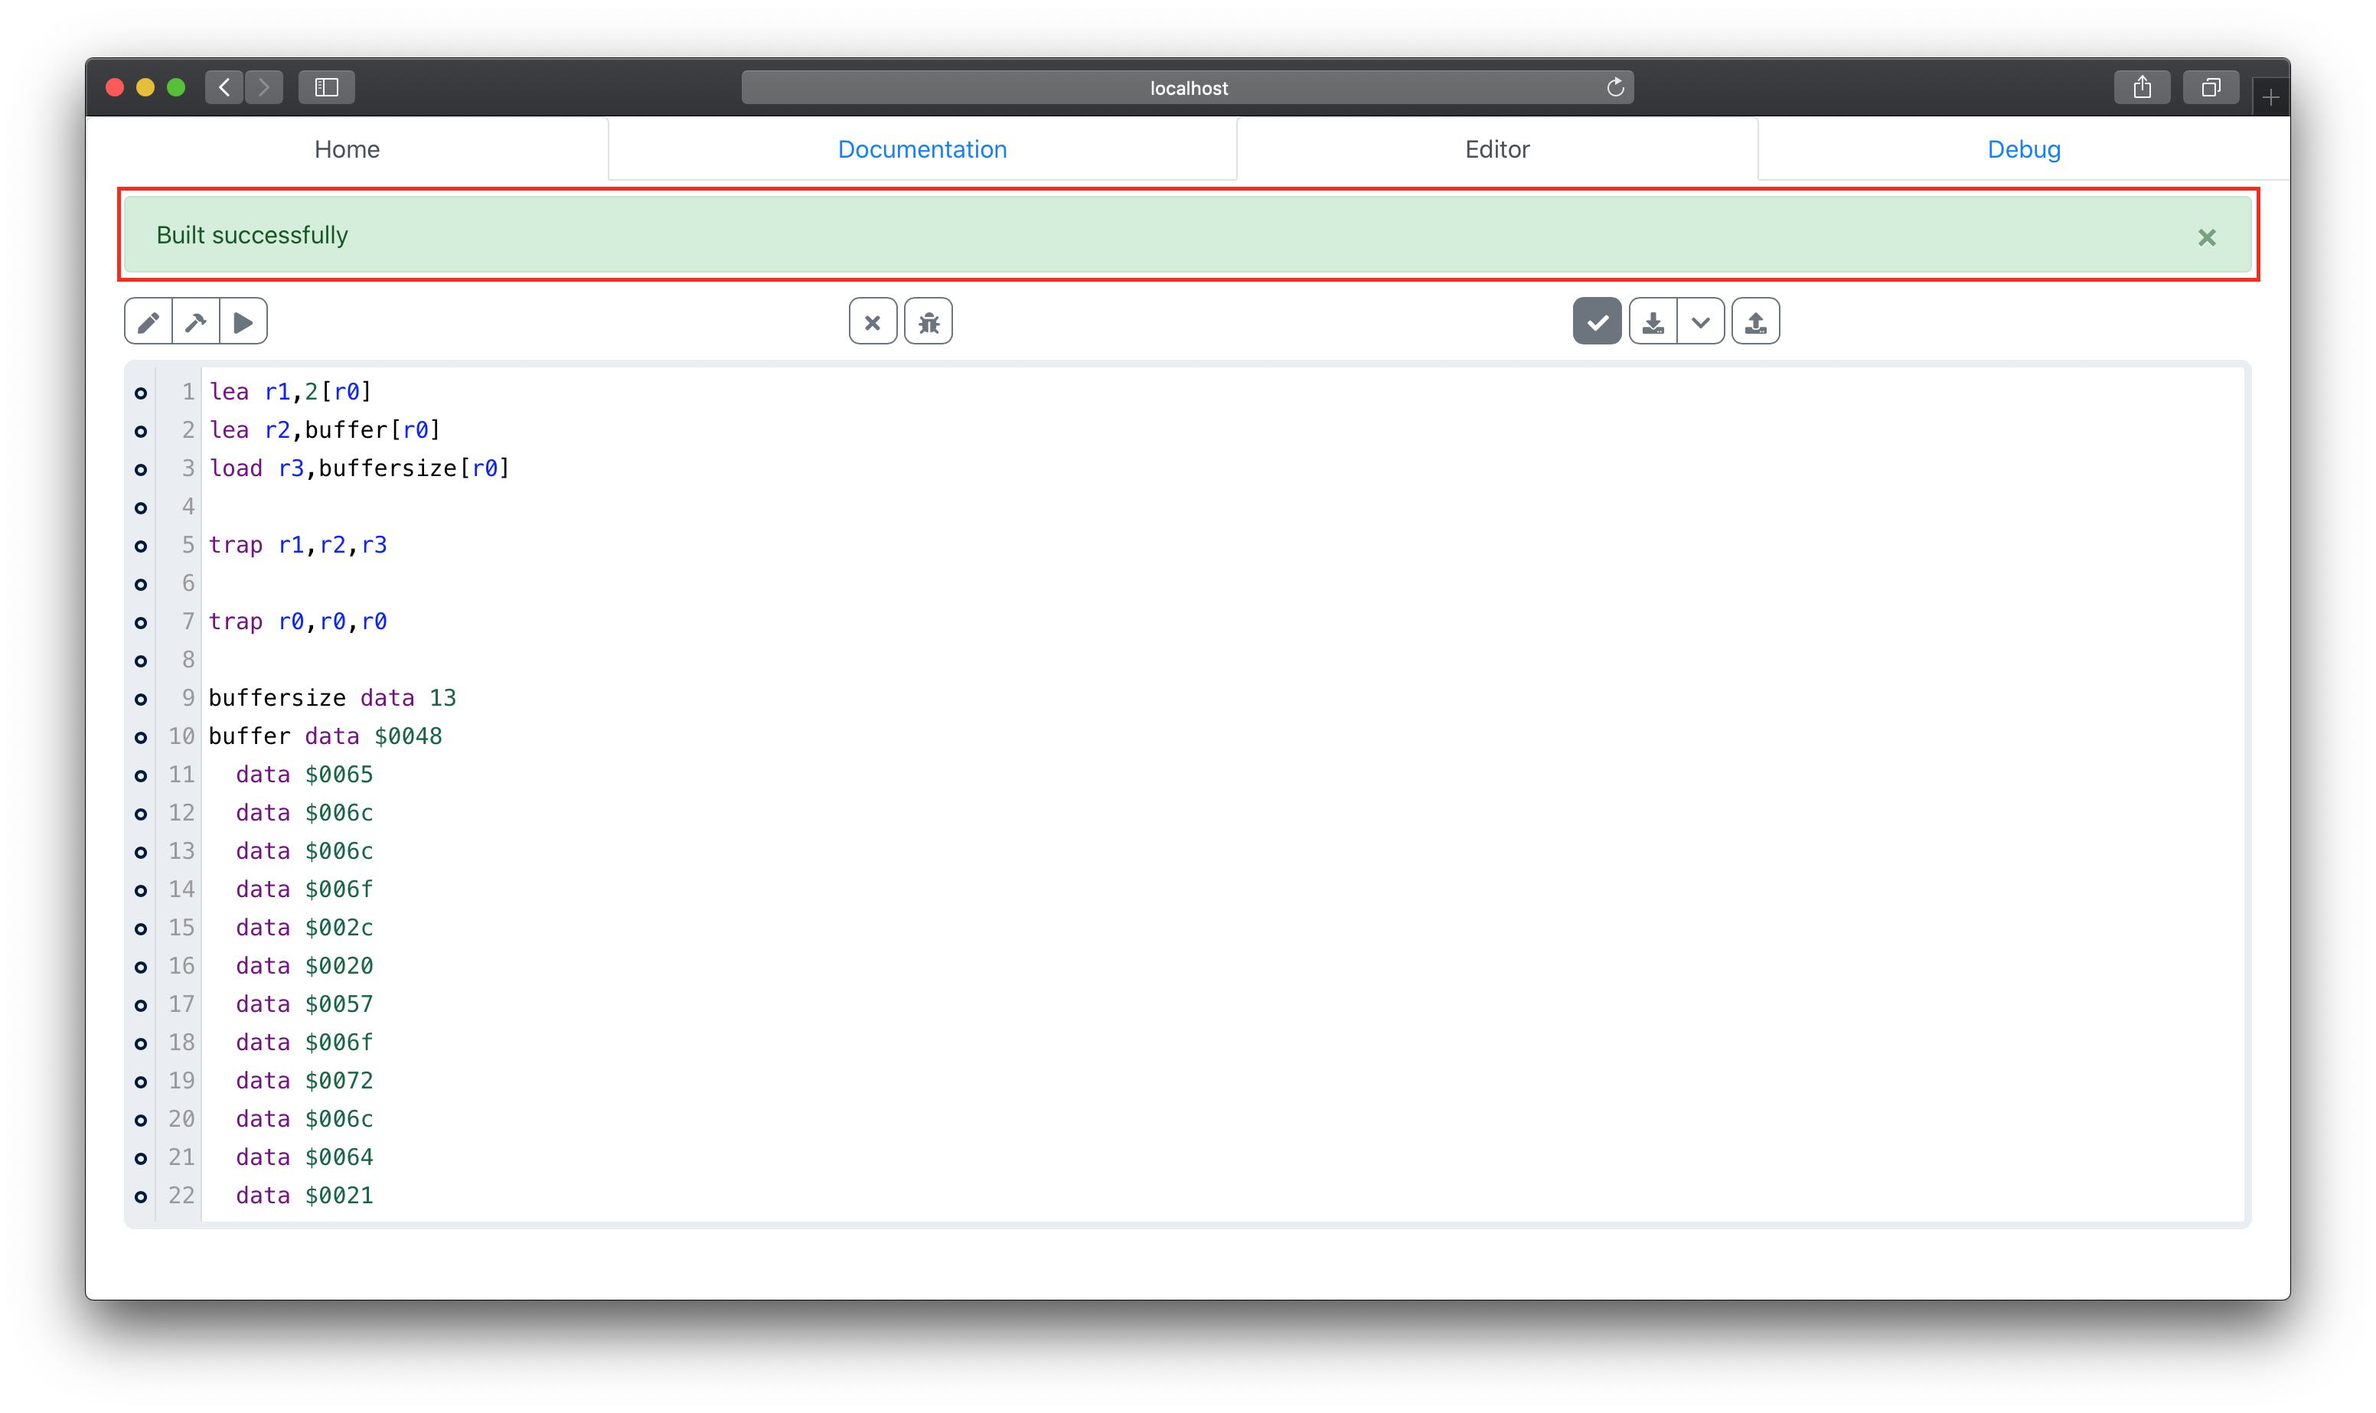
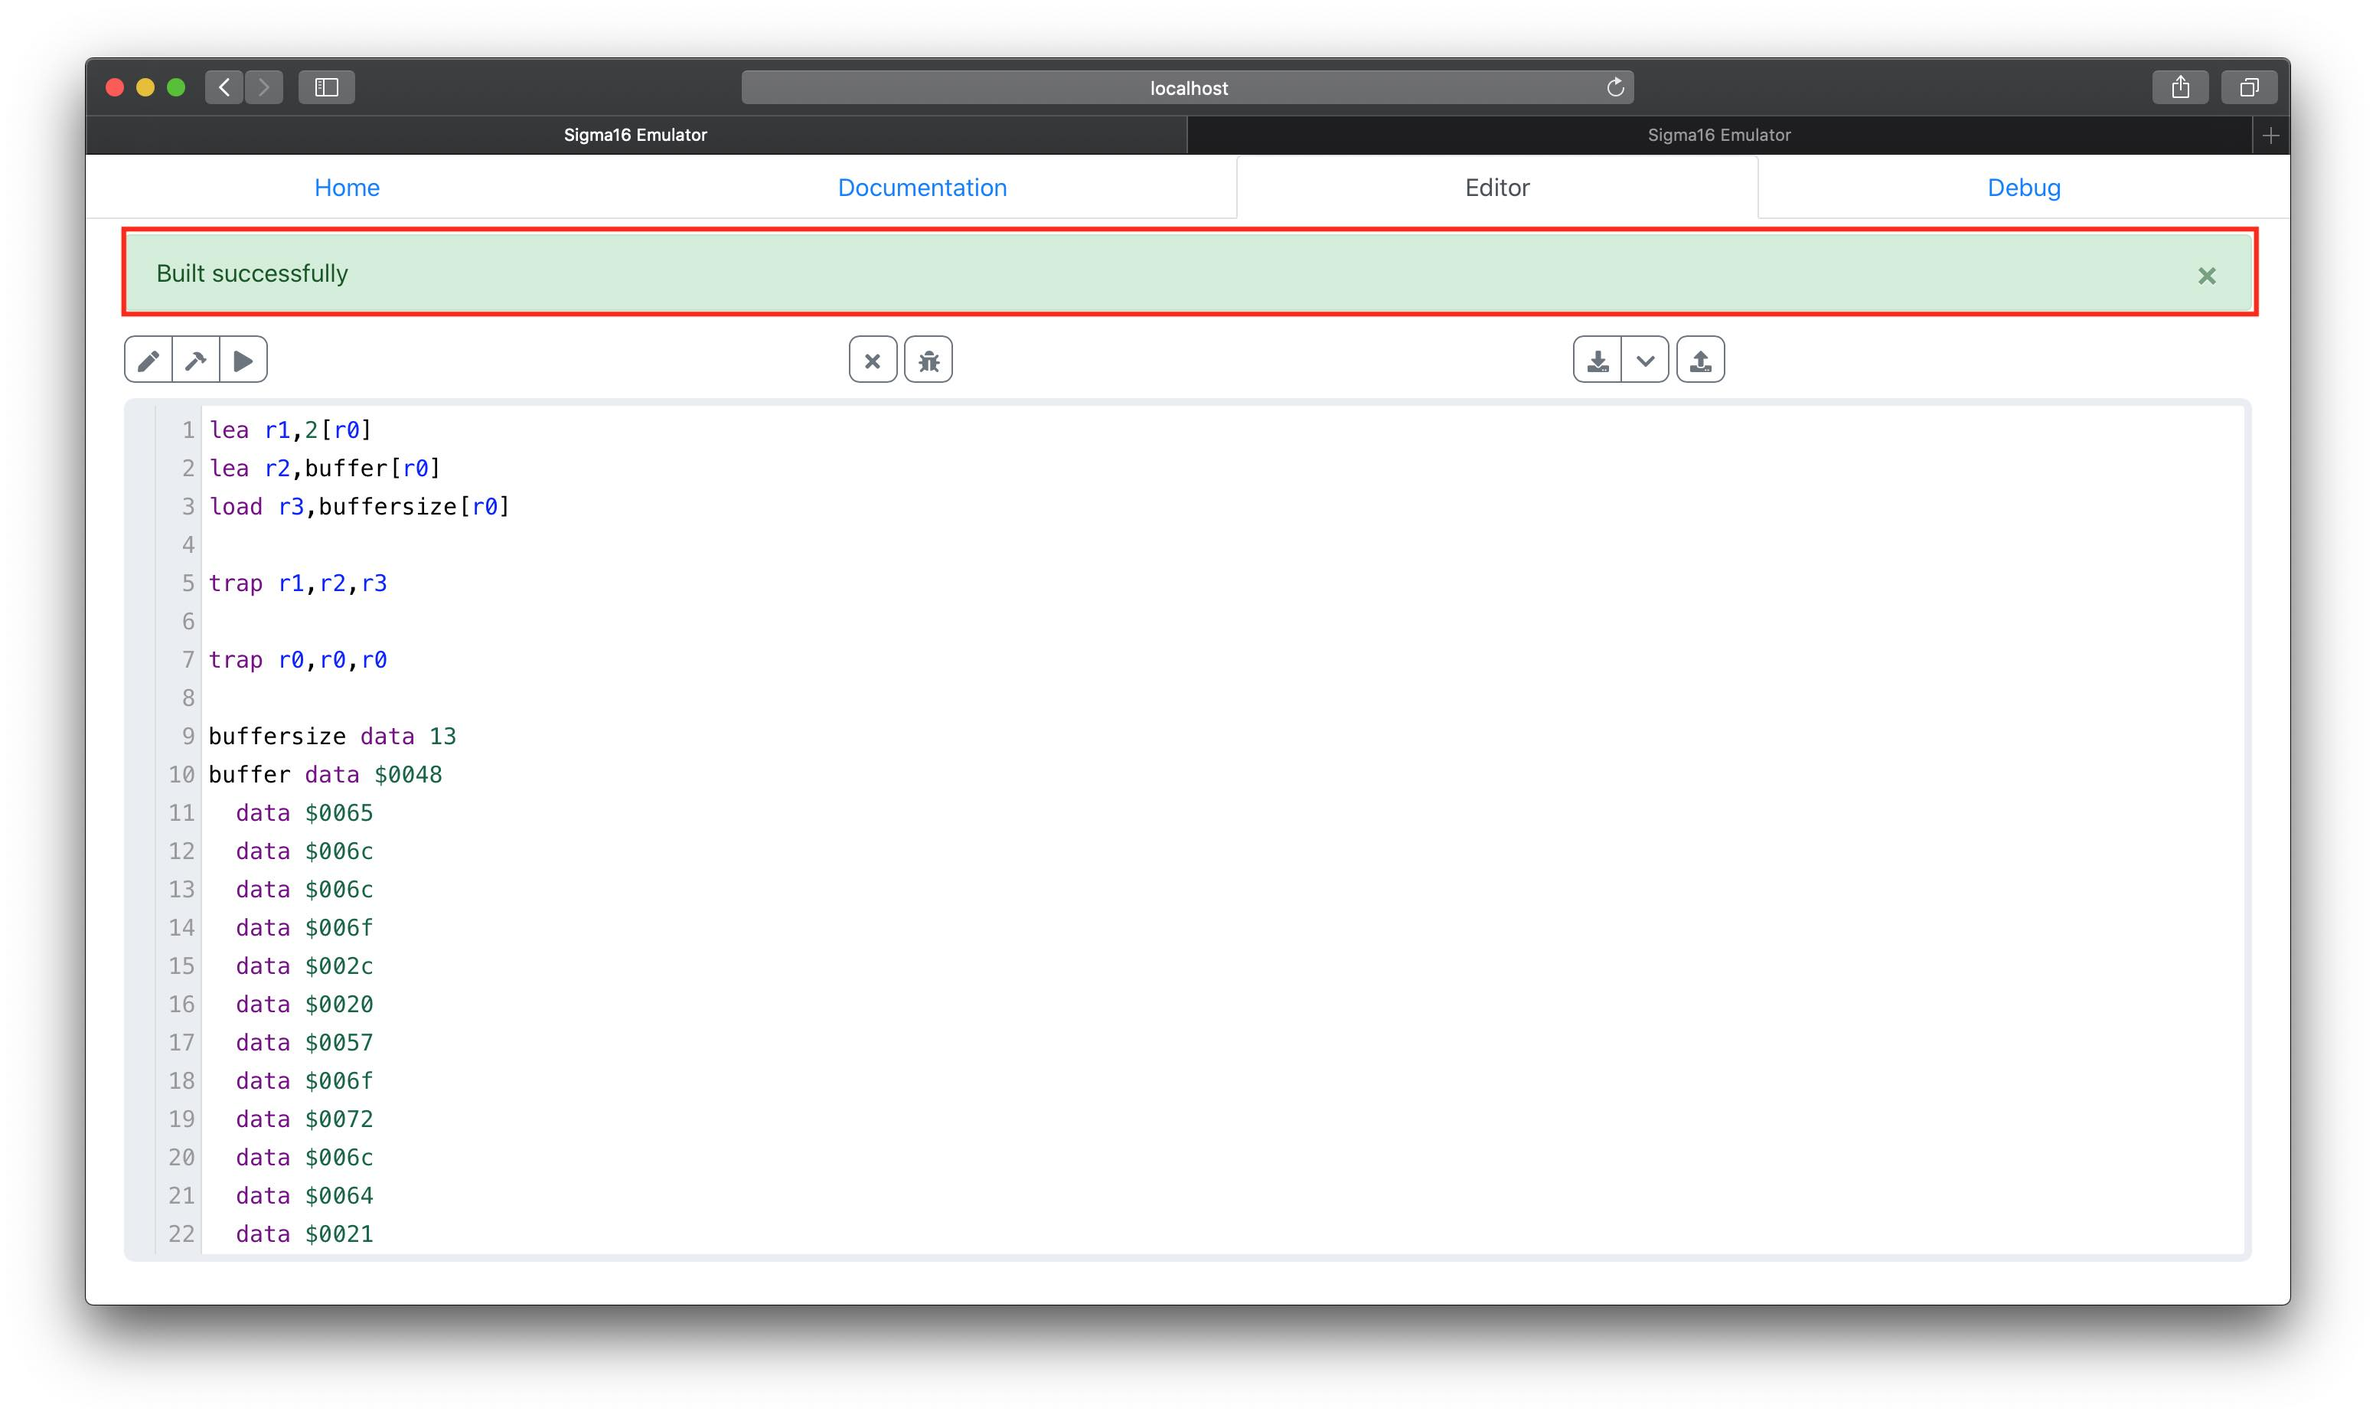
updated docs images and text about highlighting. fixed any other errors that were residing

Changed region(s): [[0.0312, 0.0309, 0.9688, 0.8954]]

diff --git a/src/components/DocumentationView.js b/src/components/DocumentationView.js
@@ -9,7 +9,7 @@ import React from 'react';
 import './DocumentationView.css';
 
 import { Button, Col, Collapse, Row, Table } from 'react-bootstrap';
-import { FaBackward, FaBug, FaCheck, FaChevronDown, FaChevronUp, FaDownload, FaEye, FaEyeSlash, FaHammer, FaMinus, FaPen, FaPlay, FaStepForward, FaTimes, FaUpload } from 'react-icons/fa';
+import { FaBackward, FaBug, FaChevronDown, FaChevronUp, FaDownload, FaEye, FaEyeSlash, FaHammer, FaMinus, FaPen, FaPlay, FaStepForward, FaTimes, FaUpload } from 'react-icons/fa';
 import Select from 'react-select';
 
 import * as Emulator from './utils/Emulator';
@@ -119,7 +119,6 @@ export default class DocumentationView extends React.Component {
 
           'Using the IDE/Editing a program', // Editing a program
             'Using the IDE/Editing a program/Input editing', // Input editing
-            'Using the IDE/Editing a program/Highlighting', // Highlighting
 
           'Using the IDE/Running a program', // Running a program
           
@@ -1904,19 +1903,6 @@ export default class DocumentationView extends React.Component {
                       <img style={{width : '100%', height : '100%'}} src={`${process.env.PUBLIC_URL}/docs/editing2.jpg`} alt='Red box around text box of set input modal'/>
                     </div>
                   </InfoArea>
-                  <InfoArea state={this.state} title={'Highlighting'} depth={3}>
-                    <div className='info-body white'>
-                      The <strong>keyword highlighting</strong> of the code chunk can be <strong>turned off</strong> by pressing the <FaCheck/> icon on the <strong>far right</strong> of the button toolbar. This <strong>increases</strong> the <strong>performance</strong> of the website <strong>slightly</strong> when editing larger files, e.g, thousands of lines<br/>
-                      <img style={{width : '100%', height : '100%'}} src={`${process.env.PUBLIC_URL}/docs/editing3.jpg`} alt='Unhighlighted code chunk'/><br/>
-                      However, <strong>indenting</strong> with the <strong>unhighlighted</strong> code chunk is not as <strong>well-formed</strong> so it is suggested that even when editing larger files, to <strong>still</strong> use the highlighting, or, another text Editor, such as{'\xa0'/**&nbsp*/}
-                      <a
-                        href='https://sublimetext.com'
-                        target='_blank'
-                        rel='noopener noreferrer'>
-                        Sublime Text 3
-                      </a><br/>
-                    </div>
-                  </InfoArea>
                 </InfoArea>
                 <InfoArea state={this.state} title={'Running a program'} depth={2}>
                   <div className='info-body white'>
@@ -1982,8 +1968,8 @@ export default class DocumentationView extends React.Component {
                       
                       <img style={{width : '100%', height : '100%'}} src={`${process.env.PUBLIC_URL}/docs/debugging1.jpg`} alt='Red box around build unsuccessful alert'/><br/>
                       
-                      <strong>Along</strong> with an alert at the top of the window displaying, the <strong>line</strong> in which error has occurred will have a <strong>red box</strong> replacing the regular black circle in the <strong>column</strong> to the <strong>left</strong> of the <strong>line numbers</strong> in the <strong>code chunk</strong><br/>
-                      When <strong>hovering over</strong> this now <strong>red box</strong>, details about why the error occurred will appear<br/>
+                      <strong>Along</strong> with an alert at the top of the window displaying, the <strong>line</strong> in which error has occurred will have a <strong>red box</strong> replacing nothing in the <strong>column</strong> to the <strong>left</strong> of the <strong>line numbers</strong> in the <strong>code chunk</strong><br/>
+                      When <strong>hovering over</strong> this <strong>red box</strong>, details about why the error occurred will appear<br/>
                       
                       <img style={{width : '100%', height : '100%'}} src={`${process.env.PUBLIC_URL}/docs/debugging2.jpg`} alt='Red box around error details tooltip'/><br/>
                       
@@ -2013,8 +1999,7 @@ export default class DocumentationView extends React.Component {
                       
                       <img style={{width : '100%', height : '100%'}} src={`${process.env.PUBLIC_URL}/docs/debugging4.jpg`} alt='Red box around success alert'/><br/>
                       
-                      Like the Editor tab, the <strong>highlighting</strong> for the code chunk can be turned <strong>off</strong> and <strong>on</strong> using the <FaCheck/> icon<br/>
-                      <strong>Unlike</strong> the Editor tab, however, the code chunk can be <strong>hidden completely</strong> using the <FaMinus/> icon<br/>
+                      <strong>Unlike</strong> the Editor tab, the code chunk can be <strong>hidden completely</strong> using the <FaMinus/> icon<br/>
                       
                       <img style={{width : '100%', height : '100%'}} src={`${process.env.PUBLIC_URL}/docs/debugging5.jpg`} alt='Red box around success alert'/><br/>
                       
@@ -2056,8 +2041,8 @@ export default class DocumentationView extends React.Component {
                         
                         <br/>
                         
-                        Breakpoints can be <strong>activated</strong> by <strong>clicking</strong> one of the <strong>circles</strong> on the column to the <strong>left</strong> of the <strong>line numbers</strong><br/>
-                        This will <strong>fill</strong> the <strong>circle</strong> to indicate the breakpoint has been activated. Also, in the Debugger window, the <strong>corresponding</strong> memory cell to the line will become <strong>underlined</strong> to show <strong>where</strong> in <strong>memory</strong> the program's <strong>execution</strong> will <strong>pause</strong><br/>
+                        Breakpoints can be <strong>activated</strong> by <strong>clicking</strong> on the <strong>line number</strong> to the <strong>left</strong> of the <strong>code</strong><br/>
+                        This will then show a <strong>filled circle</strong> to indicate the breakpoint has been activated. Also, in the Debugger window, the <strong>corresponding</strong> memory cell to the line will become <strong>underlined</strong> to show <strong>where</strong> in <strong>memory</strong> the program's <strong>execution</strong> will <strong>pause</strong><br/>
                         
                         <img style={{width : '100%', height : '100%'}} src={`${process.env.PUBLIC_URL}/docs/debugging8.jpg`} alt='Red box around activated breakpoint and underlined memory value'/><br/>
                         
@@ -2122,7 +2107,7 @@ export default class DocumentationView extends React.Component {
 
                       <img style={{width : '100%', height : '100%'}} src={`${process.env.PUBLIC_URL}/docs/exporting3.jpg`} alt='Red box around failed download alert'/><br/>
 
-                      Along with the <strong>alert</strong>, the circle in the column to the <strong>left</strong> of the <strong>line numbers</strong> will turn into a <strong>red triangle</strong><br/>
+                      Along with the <strong>alert</strong>, a <strong>red triangle</strong> will appear in the column <strong>next</strong> to the <strong>line numbers</strong><br/>
                       <strong>Hovering over</strong> this triangle will display information for why this line is <strong>incompatible</strong><br/>
 
                       <img style={{width : '100%', height : '100%'}} src={`${process.env.PUBLIC_URL}/docs/exporting4.jpg`} alt='Red box around failed download tooltip'/><br/>
@@ -2135,7 +2120,7 @@ export default class DocumentationView extends React.Component {
 
                       <img style={{width : '100%', height : '100%'}} src={`${process.env.PUBLIC_URL}/docs/exporting5.jpg`} alt='Red box around warning download alert'/><br/>
 
-                      Along with the <strong>alert</strong>, the circle in the column to the <strong>left</strong> of the <strong>line numbers</strong> will turn into an <strong>orange triangle</strong><br/>
+                      Along with the <strong>alert</strong>, an <strong>orange triangle</strong> will appear in the column <strong>next</strong> to the <strong>line numbers</strong><br/>
                       <strong>Hovering over</strong> this triangle will display information for why this line may cause <strong>discrepancies</strong><br/>
 
                       <img style={{width : '100%', height : '100%'}} src={`${process.env.PUBLIC_URL}/docs/exporting6.jpg`} alt='Red box around warning download tooltip'/><br/>

diff --git a/src/components/utils/CodeChunk.js b/src/components/utils/CodeChunk.js
@@ -93,8 +93,6 @@ export default class CodeMirrorComponent extends React.Component {
 
     const lines = this.state.code.split( '\n' );
 
-    const lineErrorKeys = Object.keys( this.state.lineError );
-
     var lineCompWarnKeys = [];
     var lineCompErrorKeys = [];
 
@@ -103,43 +101,39 @@ export default class CodeMirrorComponent extends React.Component {
       lineCompErrorKeys = Object.keys( this.props.lineCompError );
     }
 
-    for ( var i = 0; i < lineErrorKeys.length; i++ ) {
-      const lineI = lineErrorKeys[i] - 1;
+    if ( this.props.lineCompError ) {
+      for ( var i = 0; i < lineCompErrorKeys.length; i++ ) {
+        const lineI = lineCompErrorKeys[i] - 1;
 
-      if ( lineI <= lines.length ) {
-        const styleTop = ( 25 * ( lineI + 0.75 ) ) + 3 +'px';
+        if ( !( linesDotted.includes( lineI ) ) && lineI <= lines.length ) {
+          const styleTop = ( 25 * ( lineI + 0.75 ) ) + 3 +'px';
 
-        var className = 'breakpoint ' + ( lineI + 1 ) + ' error';
+          breakpoints.push( 
+            <OverlayTrigger
+              key={'breakpoint ' + ( lineI + 1 ) + ' comperror tooltip'}
+              placement={'right'}
+              overlay={
+                <Tooltip>
+                  {this.props.lineCompError[lineI + 1]['error']}
+                </Tooltip>
+              }>
+              <div 
+                key={'breakpoint ' + ( lineI + 1 )}
+                id={'breakpoint ' + ( lineI + 1 )} 
+                className={'breakpoint ' + ( lineI + 1 ) + ' comperror'} 
+                style={{top : styleTop}} 
+                onClick={this.breakpointOnClick}/>
+            </OverlayTrigger>
+          );
 
-        if ( this.state.breakpoints.includes( lineI + 1 ) ) {
-          className = className + ' active';
+          linesDotted.push( lineI );
         }
-
-        breakpoints.push( 
-          <OverlayTrigger
-            key={'breakpoint ' + ( lineI + 1 ) + ' error tooltip'}
-            placement={'right'}
-            overlay={
-              <Tooltip>
-                {this.state.lineError[lineI + 1]}
-              </Tooltip>
-            }>
-            <div 
-              key={'breakpoint ' + ( lineI + 1 )}
-              id={'breakpoint ' + ( lineI + 1 )} 
-              className={className} 
-              style={{top : styleTop}} 
-              onClick={this.breakpointOnClick}/>
-          </OverlayTrigger>
-        );
-
-        linesDotted.push( lineI );
       }
     }
 
-    if ( this.props.lineCompWarn ) { 
-      for ( i = 0; i < lineCompWarnKeys.length; i++ ) {
-        const lineI = lineCompWarnKeys[i] - 1;
+    if ( this.props.lineCompWarn ) {
+      for ( var it = 0; it < lineCompWarnKeys.length; it++ ) {
+        const lineI = lineCompWarnKeys[it] - 1;
 
         if ( !( linesDotted.includes( lineI ) ) && lineI <= lines.length ) {
           const styleTop = ( 25 * ( lineI + 0.75 ) ) + 3 +'px';
@@ -165,38 +159,10 @@ export default class CodeMirrorComponent extends React.Component {
           linesDotted.push( lineI );
         }
       }
-
-      for ( i = 0; i < lineCompErrorKeys.length; i++ ) {
-        const lineI = lineCompErrorKeys[i] - 1;
-
-        if ( !( linesDotted.includes( lineI ) ) && lineI <= lines.length ) {
-          const styleTop = ( 25 * ( lineI + 0.75 ) ) + 3 +'px';
-
-          breakpoints.push( 
-            <OverlayTrigger
-              key={'breakpoint ' + ( lineI + 1 ) + ' compwarn tooltip'}
-              placement={'right'}
-              overlay={
-                <Tooltip>
-                  {this.props.lineCompError[lineI + 1]['warn']}
-                </Tooltip>
-              }>
-              <div 
-                key={'breakpoint ' + ( lineI + 1 )}
-                id={'breakpoint ' + ( lineI + 1 )} 
-                className={'breakpoint ' + ( lineI + 1 ) + ' compwarn'} 
-                style={{top : styleTop}} 
-                onClick={this.breakpointOnClick}/>
-            </OverlayTrigger>
-          );
-
-          linesDotted.push( lineI );
-        }
-      }
     }
     
-    for ( i = 0; i < this.state.breakpoints.length; i++ ) {
-      const lineI = this.state.breakpoints[i] - 1;
+    for ( var ite = 0; ite < this.state.breakpoints.length; ite++ ) {
+      const lineI = this.state.breakpoints[ite] - 1;
 
       if ( !( linesDotted.includes( lineI ) ) && lineI <= lines.length ) {
         const styleTop = ( 25 * ( lineI + 0.75 ) ) + 3 +'px';
@@ -242,6 +208,15 @@ export default class CodeMirrorComponent extends React.Component {
       }
     } else {
       breakpointsCopy.push( lineNumber + 1 );
+
+      if ( this.props.breakpointCallback ) {
+        this.props.breakpointCallback( breakpointsCopy );
+      }
+    }
+
+    if ( breakpointsCopy.includes( 0 ) ) {
+      const index0 = breakpointsCopy.indexOf( 0 );
+      breakpointsCopy.splice( index0, 1 );
 
       if ( this.props.breakpointCallback ) {
         this.props.breakpointCallback( breakpointsCopy );

diff --git a/public/css/styles.css b/public/css/styles.css
@@ -291,7 +291,7 @@ p.alertbody {
 }
 
 .output-column .output-area.debug {
-  height: 100%;
+  height: calc( 12vh - 10px );
 }
 
 .memory-column.big {
